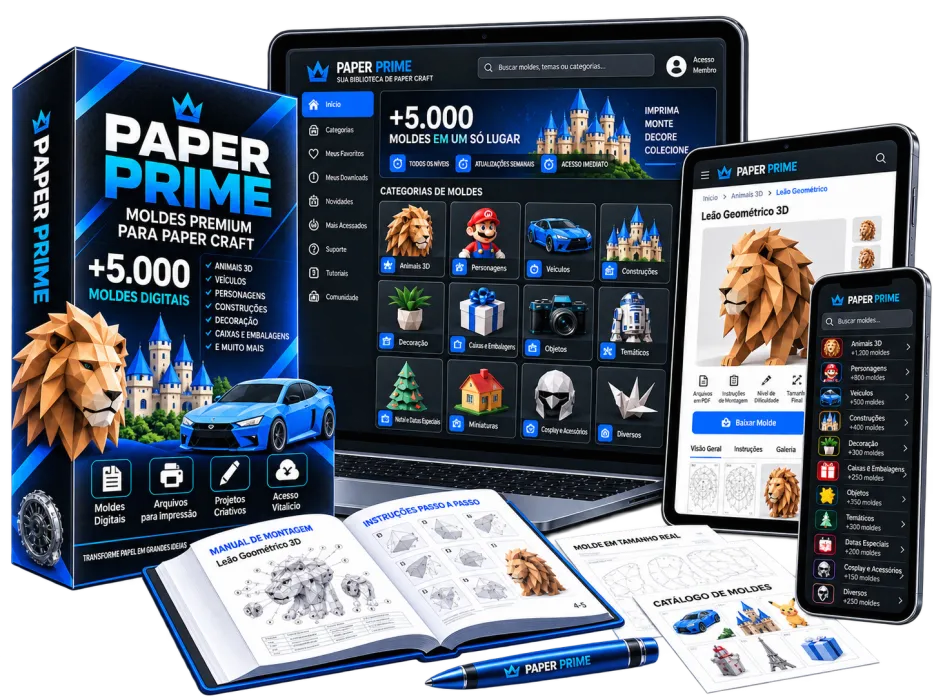
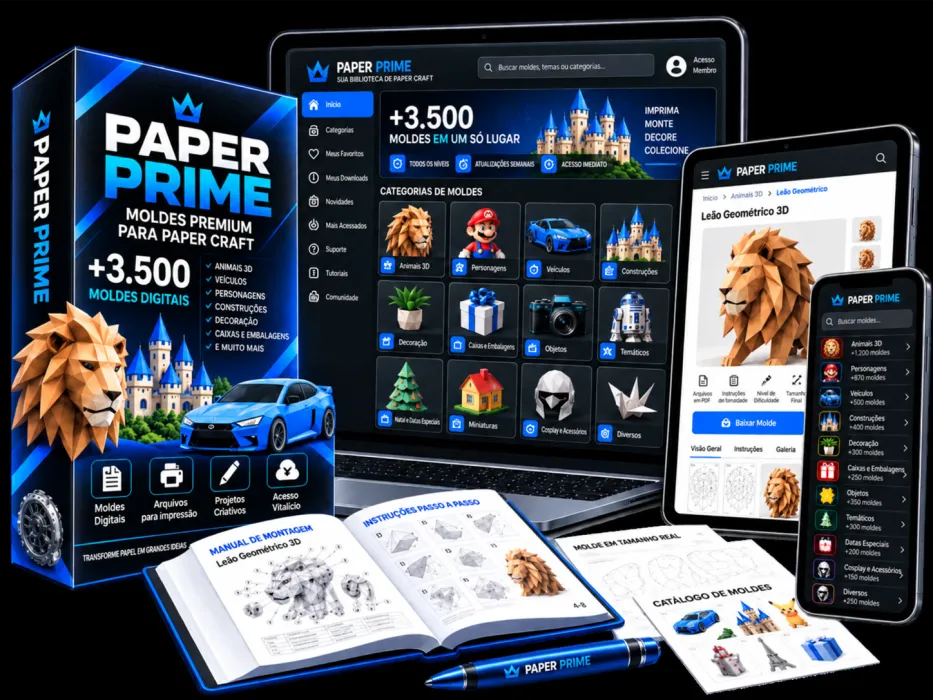
Add files via upload

diff --git a/index.html b/index.html
@@ -4,7 +4,7 @@
 <meta charset="utf-8">
 <meta name="viewport" content="width=device-width, initial-scale=1">
 <title>Papercraft Prime</title>
-<meta name="description" content="Mais de 5.000 moldes de papercraft prontos para imprimir, recortar e montar em casa.">
+<meta name="description" content="Mais de 3.500 moldes de papercraft prontos para imprimir, recortar e montar em casa.">
 
 <!-- ============ script de rastreamento (cole aqui a versao nova quando trocar) ============ -->
[1 lines of base64/hex data omitted]
@@ -1097,7 +1097,7 @@
 <!-- ============ por dentro dos moldes ============ -->
 <section class="sec sec--tint">
   <div class="in center">
-    <span class="kicker">A biblioteca dos +5000 moldes!</span>
+    <span class="kicker">A biblioteca dos +3500 moldes!</span>
     <h2>Veja por dentro <span class="b">como são os moldes</span> que você vai receber</h2>
 
     <div class="inside" data-lazy-grupo>
@@ -1218,7 +1218,7 @@
         <ul class="feats">
           <li><svg class="ic" viewBox="0 0 24 24" fill="none" aria-hidden="true"><path d="M5 12.5l4.5 4.5L19 7.5" stroke="#31BE5E" stroke-width="3" stroke-linecap="round" stroke-linejoin="round"/></svg>Acesso a 1200 Moldes</li>
           <li><svg class="ic" viewBox="0 0 24 24" fill="none" aria-hidden="true"><path d="M5 12.5l4.5 4.5L19 7.5" stroke="#31BE5E" stroke-width="3" stroke-linecap="round" stroke-linejoin="round"/></svg>Acesso Por 6 meses</li>
-          <li class="no"><svg class="ic" viewBox="0 0 24 24" fill="none" aria-hidden="true"><path d="M7 7l10 10M17 7L7 17" stroke="#E0574A" stroke-width="3" stroke-linecap="round"/></svg>Sem os +5000 Moldes</li>
+          <li class="no"><svg class="ic" viewBox="0 0 24 24" fill="none" aria-hidden="true"><path d="M7 7l10 10M17 7L7 17" stroke="#E0574A" stroke-width="3" stroke-linecap="round"/></svg>Sem os +3500 Moldes</li>
           <li class="no"><svg class="ic" viewBox="0 0 24 24" fill="none" aria-hidden="true"><path d="M7 7l10 10M17 7L7 17" stroke="#E0574A" stroke-width="3" stroke-linecap="round"/></svg>Sem os Bônus</li>
           <li class="no"><svg class="ic" viewBox="0 0 24 24" fill="none" aria-hidden="true"><path d="M7 7l10 10M17 7L7 17" stroke="#E0574A" stroke-width="3" stroke-linecap="round"/></svg>Sem o Acesso Vitalício</li>
         </ul>
@@ -1245,7 +1245,7 @@
         <hr class="plan-hr">
 
         <ul class="feats">
-          <li class="star"><svg class="ic" viewBox="0 0 24 24" fill="#FFB400" aria-hidden="true"><path d="M12 2.6l2.9 5.9 6.5.95-4.7 4.58 1.11 6.47L12 17.44 6.19 20.5 7.3 14.03 2.6 9.45l6.5-.95z"/></svg>Acesso a +5000 Moldes</li>
+          <li class="star"><svg class="ic" viewBox="0 0 24 24" fill="#FFB400" aria-hidden="true"><path d="M12 2.6l2.9 5.9 6.5.95-4.7 4.58 1.11 6.47L12 17.44 6.19 20.5 7.3 14.03 2.6 9.45l6.5-.95z"/></svg>Acesso a +3500 Moldes</li>
           <li><svg class="ic" viewBox="0 0 24 24" fill="none" aria-hidden="true"><path d="M5 12.5l4.5 4.5L19 7.5" stroke="#31BE5E" stroke-width="3" stroke-linecap="round" stroke-linejoin="round"/></svg>Acesso Vitalício</li>
           <li><svg class="ic" viewBox="0 0 24 24" fill="none" aria-hidden="true"><path d="M5 12.5l4.5 4.5L19 7.5" stroke="#31BE5E" stroke-width="3" stroke-linecap="round" stroke-linejoin="round"/></svg>Acesso imediato após a compra</li>
           <li><svg class="ic" viewBox="0 0 24 24" fill="none" aria-hidden="true"><path d="M5 12.5l4.5 4.5L19 7.5" stroke="#31BE5E" stroke-width="3" stroke-linecap="round" stroke-linejoin="round"/></svg>Garantia de 7 dias</li>
@@ -1358,7 +1358,7 @@
 
     <div class="cta-row">
       <a class="btn btn-green" href="#oferta">
-        Quero acessar os 5.000+ moldes
+        Quero acessar os 3.500+ moldes
         <svg viewBox="0 0 24 24" fill="none" stroke="currentColor" stroke-width="2.4" stroke-linecap="round" stroke-linejoin="round" aria-hidden="true"><path d="M4 12h15M13 6l6 6-6 6"/></svg>
       </a>
     </div>
@@ -1421,7 +1421,7 @@
       <p class="modal-val">R$ 17,90</p>
       <p class="modal-save">Economize R$ 7,00 agora</p>
       <ul class="modal-feats">
-        <li><svg viewBox="0 0 24 24" fill="none" aria-hidden="true"><path d="M5 12.5l4.5 4.5L19 7.5" stroke="#31BE5E" stroke-width="3" stroke-linecap="round" stroke-linejoin="round"/></svg>Acesso a +5.000 moldes prontos para imprimir</li>
+        <li><svg viewBox="0 0 24 24" fill="none" aria-hidden="true"><path d="M5 12.5l4.5 4.5L19 7.5" stroke="#31BE5E" stroke-width="3" stroke-linecap="round" stroke-linejoin="round"/></svg>Acesso a +3.500 moldes prontos para imprimir</li>
         <li><svg viewBox="0 0 24 24" fill="none" aria-hidden="true"><path d="M5 12.5l4.5 4.5L19 7.5" stroke="#31BE5E" stroke-width="3" stroke-linecap="round" stroke-linejoin="round"/></svg>Acesso vitalício, sem pagar de novo</li>
         <li><svg viewBox="0 0 24 24" fill="none" aria-hidden="true"><path d="M5 12.5l4.5 4.5L19 7.5" stroke="#31BE5E" stroke-width="3" stroke-linecap="round" stroke-linejoin="round"/></svg>Os 7 bônus liberados na hora</li>
       </ul>
